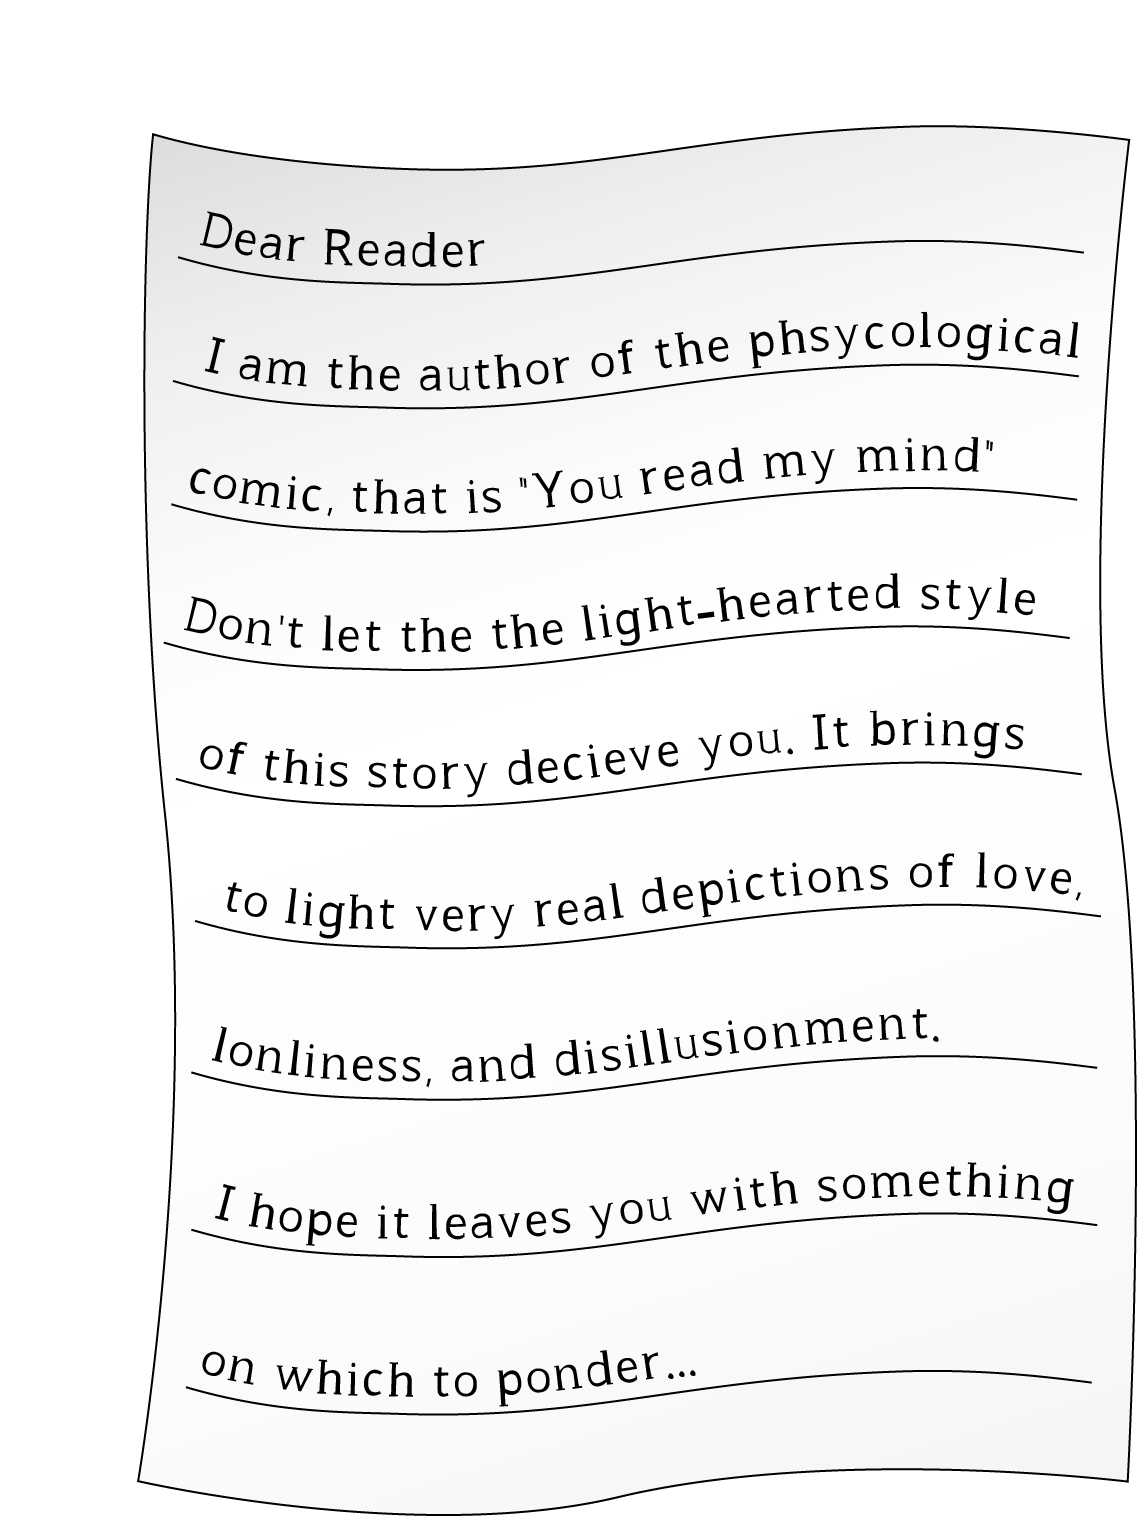
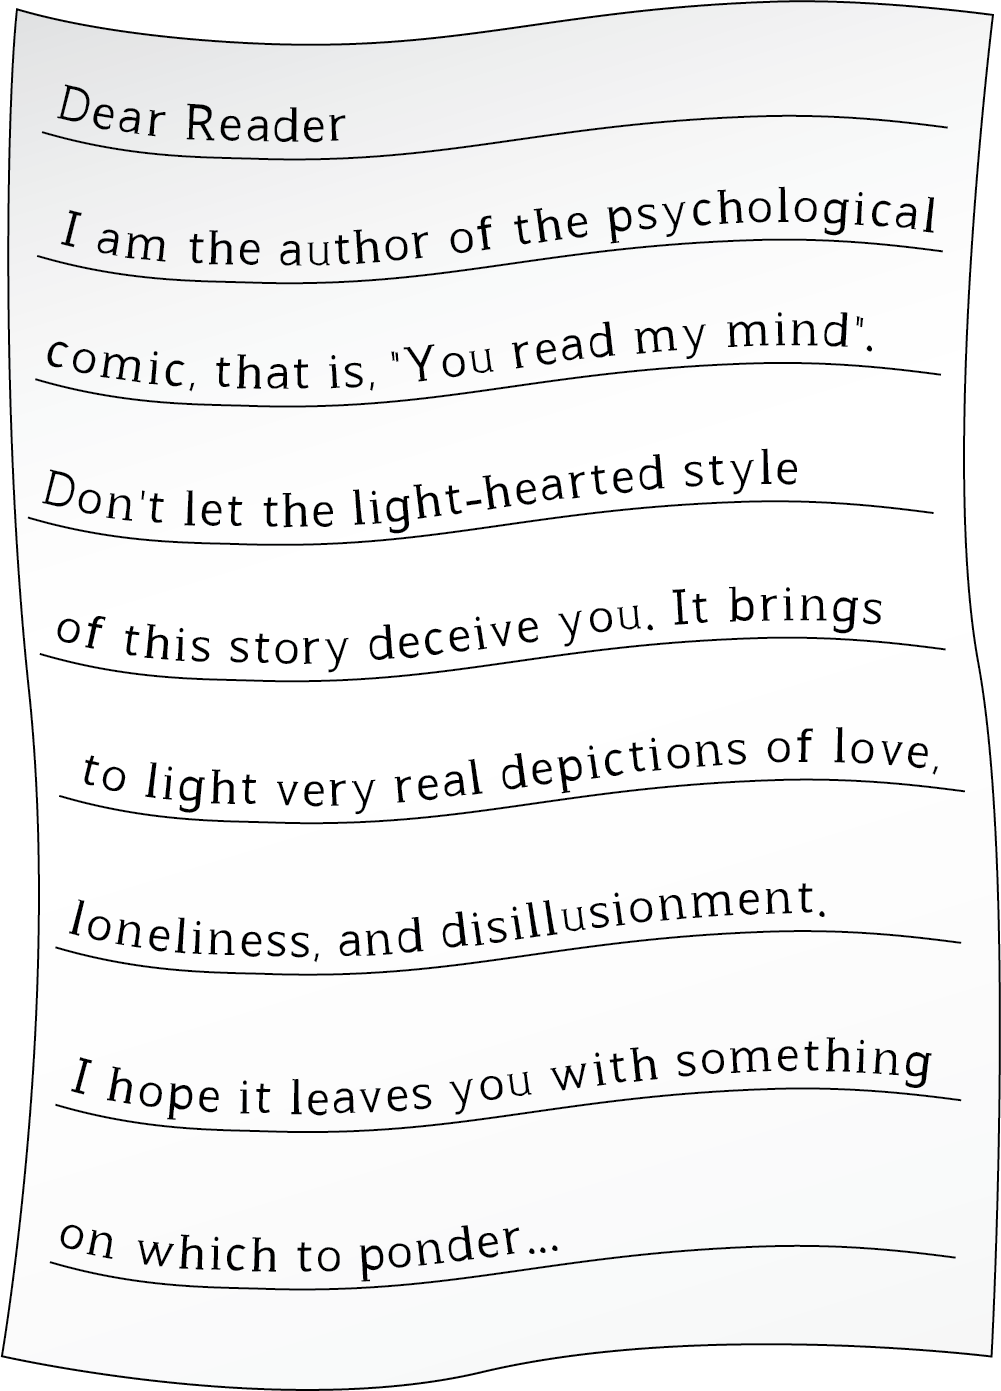
fixed letter spelling and paragraph width

diff --git a/Theme 4/Exam/vio/src/components/Description/Description.js b/Theme 4/Exam/vio/src/components/Description/Description.js
@@ -4,15 +4,18 @@ import './Description.css';
 
 export class  Description extends React.Component {
 
-  comicPara = 'The Comic'; 
-  trailerPara = 'The trailer showcases the game ';
+  comicPara1 = 'A story is told of a deeply troubled heroine searching for love.';
+  comicPara2 = 'The book was made interactive adding sound and animation throughout the story.';
+  trailerPara1 = 'The trailer showcases the game in an interactive and playful way.';
+  trailerPara2 = 'It is a subtle introduction to the protagonist and antagonist of the story, but also a test of dexterity.';
 
   constructor(props) {
     super(props);
     this.state = {
       img: 'images_website/descriptions/cactusRight.gif',
       heading: 'The Trailer', 
-      para: this.trailerPara, 
+      para1: this.trailerPara1, 
+      para2: this.trailerPara2,
       play: false,
       comic: false
     }
@@ -28,12 +31,14 @@ export class  Description extends React.Component {
     if (trailer) 
       this.setState({
         heading: 'The Trailer', 
-        para: this.trailerPara
+        para1: this.trailerPara1, 
+        para2: this.trailerPara2
       })
     else 
       this.setState({
         heading: 'The Comic', 
-        para: this.comicPara
+        para1: this.comicPara1,
+        para2: this.comicPara2
       })
 
     console.log('comic para');
@@ -42,7 +47,7 @@ export class  Description extends React.Component {
   render() {
     return (
       <div className="Description">
-        <h1>So what's in the box?</h1>
+        <h1>So what's it all about?</h1>
         <div id='descriptions'>
           <div className='imageContainer'>
             <img 
@@ -62,7 +67,10 @@ export class  Description extends React.Component {
             <div>
               <h2>{this.state.heading}</h2>
               <div className='descrItems'>
-                <p>{this.state.para}</p>
+                <div className='paragraphs'>
+                  <p>{this.state.para1}</p>
+                  <p>{this.state.para2}</p>
+                </div>
               </div>
             </div>
           </div>

diff --git a/Theme 4/Exam/vio/src/components/Description/Description.css b/Theme 4/Exam/vio/src/components/Description/Description.css
@@ -1,7 +1,7 @@
 .Description {
     width: 100%;
     margin-top: 100px;
-    margin-bottom: 100px;
+    margin-bottom: 154px;
 }
 
 .descrContainer {
@@ -13,7 +13,7 @@ h1, h2, p {
 }
 
 h1 {
-    font-size: 3rem;
+    font-size: 3.5rem;
     text-align: center;
     border-bottom: 2.5px solid rgba(0, 0, 0, 0.343);
     margin-left: 30px;
@@ -21,17 +21,19 @@ h1 {
 }
 
 h2 {
-    font-size: 2.5rem;
+    font-size: 3rem;
     margin-bottom: 10px;
+    padding-left: 50px;
 }
 
 p {
-    font-size: 1.5rem;
+    font-size: 2rem;
 }
 
 #descriptions {
     display: grid;
     grid-template-columns: 200px 1fr;
+    padding-left: 50px;
 }
 .bottomBar {
     width: 100%;
@@ -39,7 +41,8 @@ p {
 
 .descrItems {
     display: grid;
-    grid-template-columns: 1fr 1fr;
+    grid-template-columns: 1fr 150px;
+    padding-left: 50px;
 }
 
 .imageContainer {
@@ -120,6 +123,11 @@ p {
     }
 }
 
+.paragraphs {
+    height: 300px;
+    overflow-y: scroll;
+}
+
 .imageContainer img {
     width: 80%;
     padding: 10%;
@@ -135,4 +143,16 @@ p {
 .pulse {
     animation-duration: 2s !important;
     animation-name: pulse !important; 
+}
+
+@media only screen and (min-width: 1000px) {
+    .descrItems {
+        padding-right: 20%;
+    }
+}
+
+@media only screen and (min-width: 1500px) {
+    .descrItems {
+        padding-right: 40%;
+    }
 }

diff --git a/Theme 4/Exam/vio/src/components/ParkScene/ParkScene.js b/Theme 4/Exam/vio/src/components/ParkScene/ParkScene.js
@@ -69,15 +69,16 @@ export class  ParkScene extends React.Component {
   }
 
   scrollToComic() {
+    console.log(document.getElementById('Desk'));
     window.scrollTo({
-      top: 1100,
+      top: document.getElementById('Desk').offsetTop,
       behavior: 'smooth',
     });
   }
 
   scrollToTrailer() {
     window.scrollTo({
-      top: 2600,
+      top: document.getElementById('stageWrapper').offsetTop + 250,
       behavior: 'smooth',
     });
   }

diff --git a/Theme 4/Exam/vio/src/components/Desk/Desk.js b/Theme 4/Exam/vio/src/components/Desk/Desk.js
@@ -63,7 +63,7 @@ export class  Desk extends React.Component {
 
   render() {
     return (
-      <div className="Desk">
+      <div className="Desk" id="Desk">
           <div className='innerDesk'>
             <img className='desk' src="images_website/desk/room.svg"></img>
             <img className="comic" onClick={() => { this.showComic(); }} src="images_website/desk/comic.png" />

diff --git a/Theme 4/Exam/vio/src/components/Book/Book.js b/Theme 4/Exam/vio/src/components/Book/Book.js
@@ -143,7 +143,7 @@ export class Book extends React.Component {
   render() {
 
     return (
-      <div className="Book" 
+      <div className="Book"
         onMouseMove={this.handleMouseMove}
         style={{
             outline: "1000px solid rgba(0, 0, 0, 0.5)",

diff --git a/Theme 4/Exam/vio/src/components/Desk/Desk.css b/Theme 4/Exam/vio/src/components/Desk/Desk.css
@@ -76,6 +76,7 @@
 .AuthorCircleAndLetter {
     display: flex;
     position: absolute;
+    margin-top: 200px;
 }
 
 #background {
